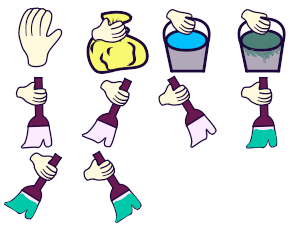
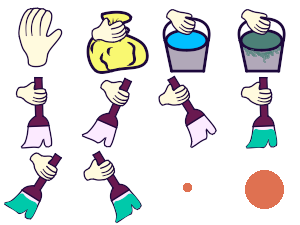
ftr(*): i tired. idk what am i do

Changed region(s): [[0.81, 0.7467, 0.96, 0.9333], [0.6, 0.8089, 0.66, 0.8711]]

diff --git a/ldjam-57-depths/src/game/Tools.js b/ldjam-57-depths/src/game/Tools.js
@@ -3,6 +3,7 @@ import Utils from "../framework/Utils.js";
 import Config from "./Config.js";
 import Enums from "./Enums.js";
 import Garbage from "./Garbage.js";
+import Player from "./Player.js";
 
 export default class Tools {
   /** @type {Garbage} */
@@ -26,13 +27,19 @@ export default class Tools {
   /** @type {Number} */
   _mana = Config.Start.Mana;
 
+  /** @type {Player} */
+  _player;
+
   /**
    * @param {Garbage} garbage
+   * @param {Player} player
    */
-  constructor(garbage, walls) {
+  constructor(garbage, player, layer) {
     const me = this;
 
     me._garbage = garbage;
+    me._player = player;
+
     me._fireballPool = Here._.physics.add.group({ collideWorldBounds: true });
 
     Here._.physics.world.on(
@@ -50,6 +57,14 @@ export default class Tools {
       me._fireballPool,
       me._garbage._movablePool,
       (fireball, movable) => me._onFireballHit(fireball),
+      null,
+      me
+    );
+
+    Here._.physics.add.collider(
+      me._fireballPool,
+      layer,
+      (fireball, l) => me._onFireballHit(fireball),
       null,
       me
     );
@@ -77,6 +92,7 @@ export default class Tools {
     if (input === -1) return;
 
     me.currentTool = input;
+    me._player.setTool(me.currentTool);
   }
 
   onPointerDown(pos, playerPos) {
@@ -155,6 +171,7 @@ export default class Tools {
 
     me._garbage.createBag(pos.x, pos.y);
     me._handContentType = Enums.HandContent.EMPTY;
+    me._player.setHandContent(me._handContentType);
   }
 
   _processEmptyHandClick(pos) {
@@ -180,7 +197,7 @@ export default class Tools {
       if (!gameObj.isGarbage) continue;
 
       me._garbage.removeGarbage(gameObj);
-      me._addGarbageToHands();
+      me._tryCreateBag();
       return;
     }
   }
@@ -208,7 +225,7 @@ export default class Tools {
       bucket.dirt += me._mopDirt;
       me._mopDirt = 0;
 
-      if (bucket.dirt >= Config.Tools.MaxBucketDirt) bucket.setFrame(5);
+      if (bucket.dirt >= Config.Tools.MaxBucketDirt) bucket.setFrame(2);
     }
   }
 
@@ -234,17 +251,22 @@ export default class Tools {
     me._mopDirt -= 1;
   }
 
-  _addGarbageToHands() {
+  _tryCreateBag() {
     const me = this;
 
     me._bagGarbageCount += 1;
     if (me._bagGarbageCount < Config.Tools.MaxGarbageCountAtBag) {
-      return false;
+      return;
     }
 
-    me._handContentType = Enums.HandContent.BAG;
     me._bagGarbageCount = 0;
-    return true;
+
+    const playerPos = me._player.toGameObject();
+    const bag = me._garbage.createBag(playerPos.x, playerPos.y);
+    bag.setVelocity(
+      Utils.getRandom(-1, 1) * Config.Player.BagSpawnVelocity,
+      Utils.getRandom(-1, 1) * Config.Player.BagSpawnVelocity
+    );
   }
 
   _onFireballHit(fireball) {

diff --git a/ldjam-57-depths/src/game/Game.js b/ldjam-57-depths/src/game/Game.js
@@ -25,24 +25,29 @@ export default class Game {
   /** @type {Tools} */
   _tools;
 
+  /** @type {Phaser.Tilemaps.TilemapLayer} */
+  _mapLayer;
+
   constructor() {
     const me = this;
 
     me._player = new Player();
-    me._garbage = new Garbage(me._player.toGameObject());
+    const map = me._initMap();
 
-    me._tools = new Tools(me._garbage);
+    me._garbage = new Garbage(me._player.toGameObject(), me._mapLayer);
+
+    me._tools = new Tools(me._garbage, me._player, me._mapLayer);
 
     // me._dumpster = new Dumpster(me._garbage, me._tools);
 
-    me._initMap();
+    Here._.physics.world.setBounds(0, 0, map.widthInPixels, map.heightInPixels);
 
     const camera = Here._.cameras.main;
     camera
       .setBackgroundColor(0xe2f0f7)
       // .setBackgroundColor(0x1d083c) // main color
       .startFollow(me._player.toGameObject())
-      .setBounds(0, 0, 2000, 2000)
+      .setBounds(0, 0, map.widthInPixels, map.heightInPixels)
       .setRoundPixels(true);
 
     // new Trigger(
@@ -63,18 +68,18 @@ export default class Game {
 
     // ----
 
-    // const rect = new Phaser.Geom.Rectangle(100, 100, 600, 600);
-    // for (let i = 0; i < 5; ++i) {
-    //   const pos = Phaser.Geom.Rectangle.Random(rect);
-    //   me._garbage.createGarbage(pos.x, pos.y);
-    // }
+    const rect = new Phaser.Geom.Rectangle(400, 150, 500, 500);
+    for (let i = 0; i < 5; ++i) {
+      const pos = Phaser.Geom.Rectangle.Random(rect);
+      me._garbage.createGarbage(pos.x, pos.y);
+    }
 
-    // for (let i = 0; i < 5; ++i) {
-    //   const pos = Phaser.Geom.Rectangle.Random(rect);
-    //   me._garbage.createSpot(pos.x, pos.y);
-    // }
+    for (let i = 0; i < 5; ++i) {
+      const pos = Phaser.Geom.Rectangle.Random(rect);
+      me._garbage.createSpot(pos.x, pos.y);
+    }
 
-    // me._garbage.createBucket(300, 200);
+    me._garbage.createBucket(400, 200);
     // me._garbage.createBag(300, 250);
 
     // me._garbage.createGarbageWall(500, 500);
@@ -132,9 +137,12 @@ export default class Game {
       tileHeight: Consts.Unit.Big,
     });
     const tileset = tilemap.addTilesetImage("wall");
-    const layer = tilemap.createLayer(0, tileset, 0, 0);
+    me._mapLayer = tilemap.createLayer(0, tileset, 0, 0);
+    me._mapLayer.setDepth(Consts.Depth.Floor);
 
     tilemap.setCollision(1);
-    Here._.physics.add.collider(me._player.toGameObject(), layer);
+    Here._.physics.add.collider(me._player.toGameObject(), me._mapLayer);
+
+    return tilemap;
   }
 }

diff --git a/ldjam-57-depths/src/game/Garbage.js b/ldjam-57-depths/src/game/Garbage.js
@@ -1,4 +1,5 @@
 import Here from "../framework/Here.js";
+import Utils from "../framework/Utils.js";
 import Config from "./Config.js";
 import Consts from "./Consts.js";
 
@@ -15,7 +16,7 @@ export default class Garbage {
   /** @type {Phaser.Physics.Arcade.StaticGroup} */
   _wallPool;
 
-  constructor(playerGameObj) {
+  constructor(playerGameObj, layer) {
     const me = this;
 
     me._garbagePool = Here._.physics.add.staticGroup();
@@ -39,14 +40,18 @@ export default class Garbage {
 
     Here._.physics.add.collider(playerGameObj, me._movablePool);
     Here._.physics.add.collider(playerGameObj, me._wallPool);
+
+    Here._.physics.add.collider(layer, me._movablePool);
   }
 
   createGarbage(x, y) {
     const me = this;
 
-    const garbage = me._garbagePool.create(x, y, "items", 0);
+    const frame = Utils.getRandom(3, 5, 3);
+    /** @type {Phaser.Physics.Arcade.Image} */
+    const garbage = me._garbagePool.create(x, y, "items", frame);
     garbage.isGarbage = true;
-    garbage.setDepth(Consts.Depth.Garbage);
+    garbage.setDepth(Consts.Depth.Garbage).setAngle(Utils.getRandom(0, 360, 0));
   }
 
   createGarbageWall(x, y) {
@@ -102,21 +107,28 @@ export default class Garbage {
     bucket.destroy();
   }
 
+  /**
+   * @param {Number} x
+   * @param {Number} y
+   * @returns {Phaser.Physics.Arcade.Image}
+   */
   createBag(x, y) {
     const me = this;
 
-    const bag = me._movablePool.create(x, y, "items", 1);
+    const bag = me._movablePool.create(x, y, "items", 0);
     bag.isBag = true;
 
     bag.setDepth(Consts.Depth.Movable);
 
-    me.createSpot(x, y);
+    // me.createSpot(x, y);
+
+    return bag;
   }
 
   createBucket(x, y) {
     const me = this;
 
-    const bucket = me._movablePool.create(x, y, "items", 4);
+    const bucket = me._movablePool.create(x, y, "items", 1);
     bucket.isBucket = true;
     bucket.setDepth(Consts.Depth.Movable);
 
@@ -128,8 +140,9 @@ export default class Garbage {
   createSpot(x, y) {
     const me = this;
 
-    const spot = me._spotPool.create(x, y, "items", 2);
+    const frame = Utils.getRandom(6, 8, 6);
+    const spot = me._spotPool.create(x, y, "items", frame);
     spot.isSpot = true;
-    spot.setDepth(Consts.Depth.Spot);
+    spot.setDepth(Consts.Depth.Spot).setAngle(Utils.getRandom(0, 360, 0));
   }
 }

diff --git a/ldjam-57-depths/src/game/Player.js b/ldjam-57-depths/src/game/Player.js
@@ -22,7 +22,7 @@ export default class Player {
     const me = this;
 
     me._sprite = Here._.add.sprite(5, 0, "player_idle", 0);
-    me._hand = Here._.add.sprite(50, 50, "items", 6).setDepth(Consts.Depth.UI);
+    me._hand = Here._.add.sprite(50, 50, "hand", 0).setDepth(Consts.Depth.UI);
 
     me._container = Here._.add
       .container(Config.Start.PlayerX, Config.Start.PlayerY, [
@@ -59,6 +59,38 @@ export default class Player {
       me._container.x + me._hand.x,
       me._container.y + me._hand.y
     );
+  }
+
+  setHandContent(content) {
+    const me = this;
+
+    if (content == Enums.HandContent.EMPTY) {
+      return me._hand.setFrame(0);
+    }
+
+    if (content == Enums.HandContent.BAG) {
+      return me._hand.setFrame(1);
+    }
+
+    throw "error";
+  }
+
+  setTool(tool) {
+    const me = this;
+
+    if (tool == Enums.Tools.HAND) {
+      return me._hand.setFrame(0); // TODO
+    }
+
+    if (tool == Enums.Tools.MOP) {
+      return me._hand.setFrame(4); // TODO
+    }
+
+    if (tool == Enums.Tools.FIREBALL) {
+      return me._hand.setFrame(10);
+    }
+
+    throw "error";
   }
 
   _onPointerMove(pointer) {

diff --git a/ldjam-57-depths/src/scenes/GameScene.js b/ldjam-57-depths/src/scenes/GameScene.js
@@ -29,6 +29,7 @@ export default class GameScene extends HereScene {
     if (!me._isRestart) Utils.runLoadingBar();
 
     Utils.loadSpriteSheet("items", Consts.Unit.Normal);
+    Utils.loadSpriteSheet("hand", 75);
     Utils.loadSpriteSheet("wall", Consts.Unit.Big);
     Utils.loadSpriteSheet("player_walk", Consts.Unit.Big);
     Utils.loadSpriteSheet("player_idle", Consts.Unit.Big);

diff --git a/ldjam-57-depths/src/game/Config.js b/ldjam-57-depths/src/game/Config.js
@@ -15,10 +15,11 @@ export default class Config {
 
   static Player = {
     Speed: 400,
+    BagSpawnVelocity: 500,
   };
 
   static Tools = {
-    MaxGarbageCountAtBag: 2,
+    MaxGarbageCountAtBag: 1,
     MaxMopDirt: 2,
     MaxBucketDirt: 4,
     FireballSpeed: 400,

diff --git a/ldjam-57-depths/src/Main.js b/ldjam-57-depths/src/Main.js
@@ -16,7 +16,7 @@ export default new Phaser.Game({
   physics: {
     default: "arcade",
     arcade: {
-      debug: true,
+      debug: false,
     },
   },
 });
